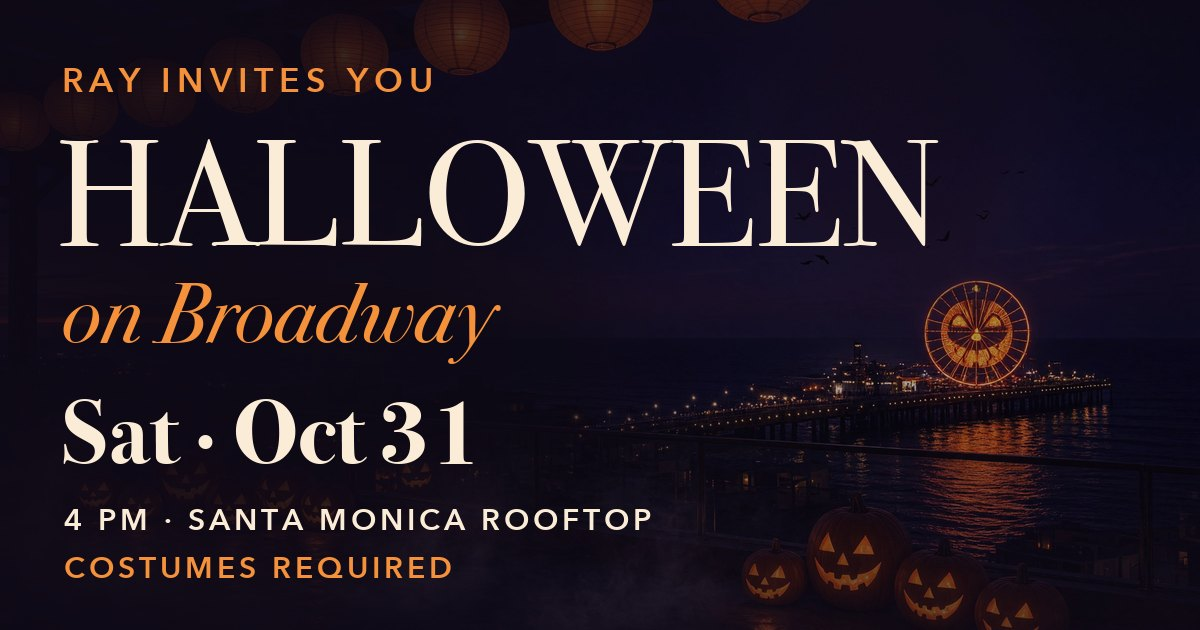
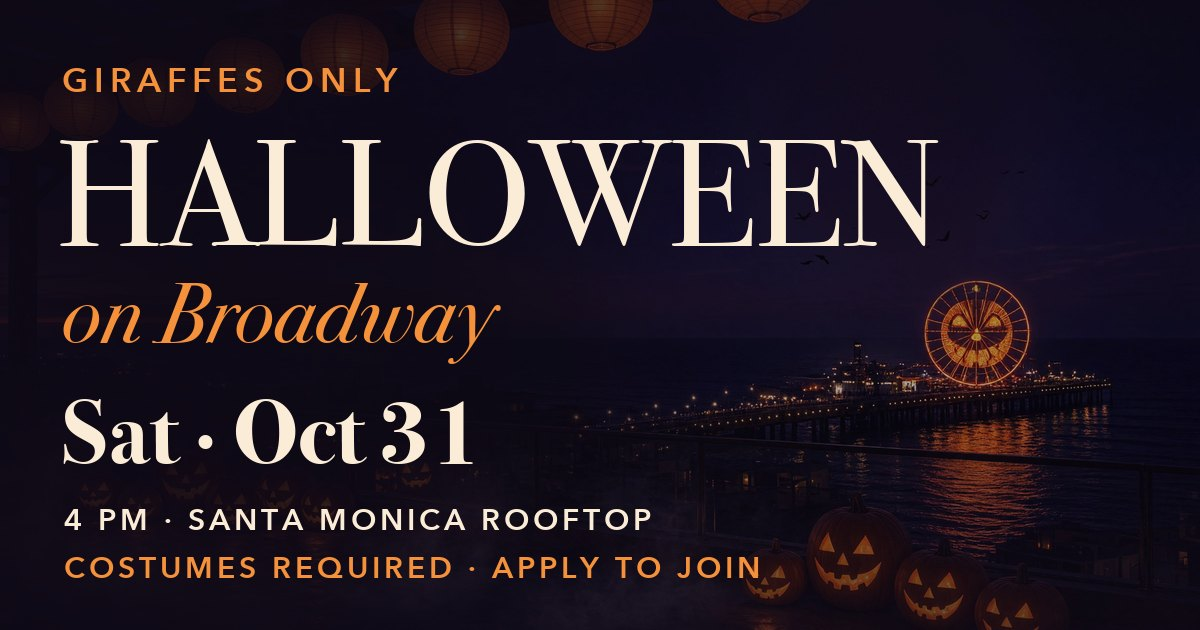
Halloween shares: Giraffes only

Changed region(s): [[0.0308, 0.0905, 0.37, 0.1508], [0.4008, 0.8746, 0.6475, 0.9349]]

diff --git a/halloween/ray/index.html b/halloween/ray/index.html
@@ -3,34 +3,34 @@
 <head>
 <meta charset="utf-8">
 <meta name="viewport" content="width=device-width, initial-scale=1">
-<title>Ray invites you · Halloween on Broadway, Sat Oct 31 · The Oasis</title>
+<title>Halloween on Broadway · Giraffes only, Sat Oct 31 · The Oasis</title>
 
 <meta property="og:type" content="website">
 <meta property="og:site_name" content="The Oasis">
-<meta property="og:title" content="Ray invites you · Halloween on Broadway, Sat Oct 31">
-<meta property="og:description" content="A rooftop soirée in Santa Monica from 4 PM until the witching hour: dancing, drinks, the pool and an ocean view. Costumes required. RSVP here and your spot is confirmed.">
+<meta property="og:title" content="Halloween on Broadway · Giraffes only, Sat Oct 31">
+<meta property="og:description" content="A rooftop soirée in Santa Monica from 4 PM until the witching hour: dancing, drinks, the pool and an ocean view. Costumes required. For Grateful Giraffes only. Not one yet? Apply for membership.">
 <meta property="og:url" content="https://grateful.gg/halloween/ray/">
 <meta property="og:image" content="https://grateful.gg/halloween/ray/cover.jpg">
 <meta property="og:image:secure_url" content="https://grateful.gg/halloween/ray/cover.jpg">
 <meta property="og:image:type" content="image/jpeg">
 <meta property="og:image:width" content="1200">
 <meta property="og:image:height" content="630">
-<meta property="og:image:alt" content="Ray invites you to Halloween on Broadway, Saturday October 31, Santa Monica rooftop">
+<meta property="og:image:alt" content="Halloween on Broadway · Giraffes only, Sat Oct 31">
 <meta name="twitter:card" content="summary_large_image">
-<meta name="twitter:title" content="Ray invites you · Halloween on Broadway, Sat Oct 31">
-<meta name="twitter:description" content="A rooftop soirée in Santa Monica from 4 PM until the witching hour: dancing, drinks, the pool and an ocean view. Costumes required. RSVP here and your spot is confirmed.">
+<meta name="twitter:title" content="Halloween on Broadway · Giraffes only, Sat Oct 31">
+<meta name="twitter:description" content="A rooftop soirée in Santa Monica from 4 PM until the witching hour: dancing, drinks, the pool and an ocean view. Costumes required. For Grateful Giraffes only. Not one yet? Apply for membership.">
 <meta name="twitter:image" content="https://grateful.gg/halloween/ray/cover.jpg">
 
 <!-- Humans go to the real page; crawlers read the tags above first. The card
      below only shows if the redirect is blocked (in-app browsers, JS off). -->
 <!-- Keep the query string (utm_*, fbclid) and hash so ad and campaign links
      still attribute; the no-JS refresh can't carry them. -->
-<script>location.replace("https://app.grateful.gg/halloween/ray" + location.search + location.hash);</script>
-<noscript><meta http-equiv="refresh" content="0; url=https://app.grateful.gg/halloween/ray"></noscript>
+<script>location.replace("https://app.grateful.gg/halloween" + location.search + location.hash);</script>
+<noscript><meta http-equiv="refresh" content="0; url=https://app.grateful.gg/halloween"></noscript>
 <style>html{visibility:hidden}</style>
 <noscript><style>html{visibility:visible}</style></noscript>
 <script>setTimeout(function(){document.documentElement.style.visibility='visible';},1200);</script>
-<link rel="canonical" href="https://app.grateful.gg/halloween/ray">
+<link rel="canonical" href="https://app.grateful.gg/halloween">
 <style>
   body{margin:0;font-family:Georgia,'Libre Bodoni',serif;color:#26211b;
     background:linear-gradient(180deg,#fff7ed 0%,#fef2f8 45%,#eef2ff 100%);
@@ -46,9 +46,9 @@
 </head>
 <body>
   <main class="card">
-    <img src="https://grateful.gg/halloween/ray/cover.jpg" alt="Ray invites you to Halloween on Broadway, Saturday October 31, Santa Monica rooftop" width="1200" height="630">
-    <div class="b"><h1>Ray invites you · Halloween on Broadway, Sat Oct 31</h1><p>A rooftop soirée in Santa Monica from 4 PM until the witching hour: dancing, drinks, the pool and an ocean view. Costumes required. RSVP here and your spot is confirmed.</p>
-    <a class="btn" href="https://app.grateful.gg/halloween/ray">Open the event &rarr;</a></div>
+    <img src="https://grateful.gg/halloween/ray/cover.jpg" alt="Halloween on Broadway · Giraffes only, Sat Oct 31" width="1200" height="630">
+    <div class="b"><h1>Halloween on Broadway · Giraffes only, Sat Oct 31</h1><p>A rooftop soirée in Santa Monica from 4 PM until the witching hour: dancing, drinks, the pool and an ocean view. Costumes required. For Grateful Giraffes only. Not one yet? Apply for membership.</p>
+    <a class="btn" href="https://app.grateful.gg/halloween">Open the event &rarr;</a></div>
   </main>
 </body>
 </html>

diff --git a/halloween/index.html b/halloween/index.html
@@ -8,7 +8,7 @@
 <meta property="og:type" content="website">
 <meta property="og:site_name" content="The Oasis">
 <meta property="og:title" content="Halloween on Broadway · Sat Oct 31">
-<meta property="og:description" content="You are summoned. A rooftop soirée in Santa Monica from 4 PM until the witching hour: dancing, drinks, the pool and an ocean view. Costumes required.">
+<meta property="og:description" content="You are summoned. A rooftop soirée in Santa Monica from 4 PM until the witching hour: dancing, drinks, the pool and an ocean view. Costumes required. For Grateful Giraffes only.">
 <meta property="og:url" content="https://grateful.gg/halloween/">
 <meta property="og:image" content="https://grateful.gg/halloween/cover.jpg">
 <meta property="og:image:secure_url" content="https://grateful.gg/halloween/cover.jpg">
@@ -18,7 +18,7 @@
 <meta property="og:image:alt" content="Halloween on Broadway, Saturday October 31, a Santa Monica rooftop over the pier at night">
 <meta name="twitter:card" content="summary_large_image">
 <meta name="twitter:title" content="Halloween on Broadway · Sat Oct 31">
-<meta name="twitter:description" content="You are summoned. A rooftop soirée in Santa Monica from 4 PM until the witching hour: dancing, drinks, the pool and an ocean view. Costumes required.">
+<meta name="twitter:description" content="You are summoned. A rooftop soirée in Santa Monica from 4 PM until the witching hour: dancing, drinks, the pool and an ocean view. Costumes required. For Grateful Giraffes only.">
 <meta name="twitter:image" content="https://grateful.gg/halloween/cover.jpg">
 
 <!-- Humans go to the real page; crawlers read the tags above first. The card
@@ -47,7 +47,7 @@
 <body>
   <main class="card">
     <img src="https://grateful.gg/halloween/cover.jpg" alt="Halloween on Broadway, Saturday October 31, a Santa Monica rooftop over the pier at night" width="1200" height="630">
-    <div class="b"><h1>Halloween on Broadway · Sat Oct 31</h1><p>You are summoned. A rooftop soirée in Santa Monica from 4 PM until the witching hour: dancing, drinks, the pool and an ocean view. Costumes required.</p>
+    <div class="b"><h1>Halloween on Broadway · Sat Oct 31</h1><p>You are summoned. A rooftop soirée in Santa Monica from 4 PM until the witching hour: dancing, drinks, the pool and an ocean view. Costumes required. For Grateful Giraffes only.</p>
     <a class="btn" href="https://app.grateful.gg/halloween">Open the event &rarr;</a></div>
   </main>
 </body>
